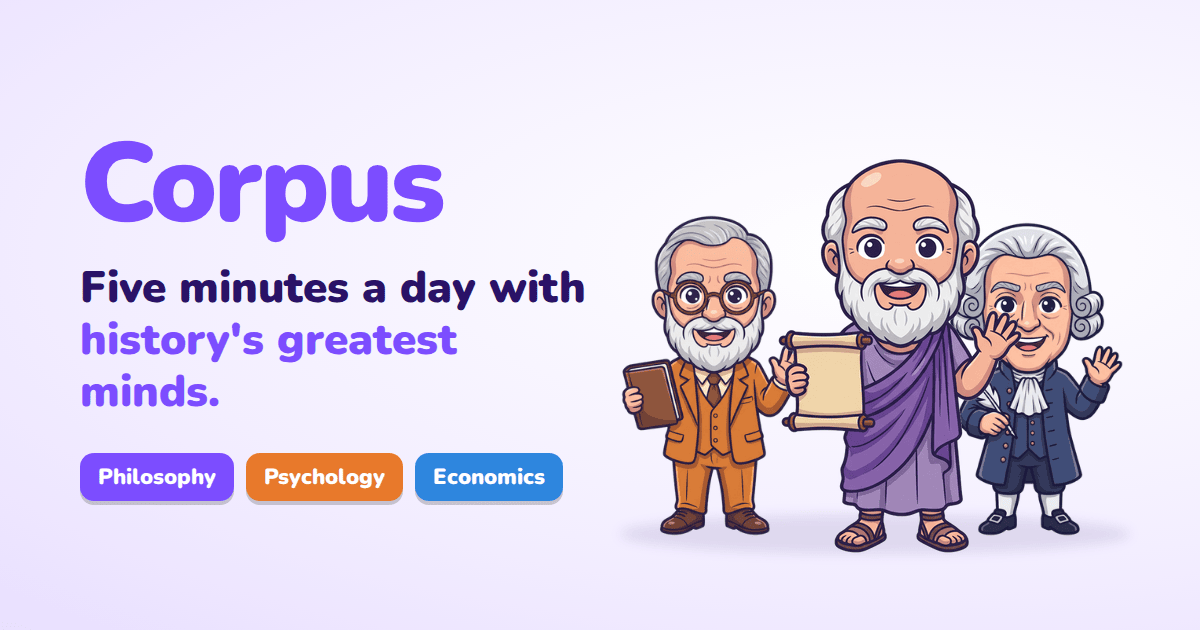
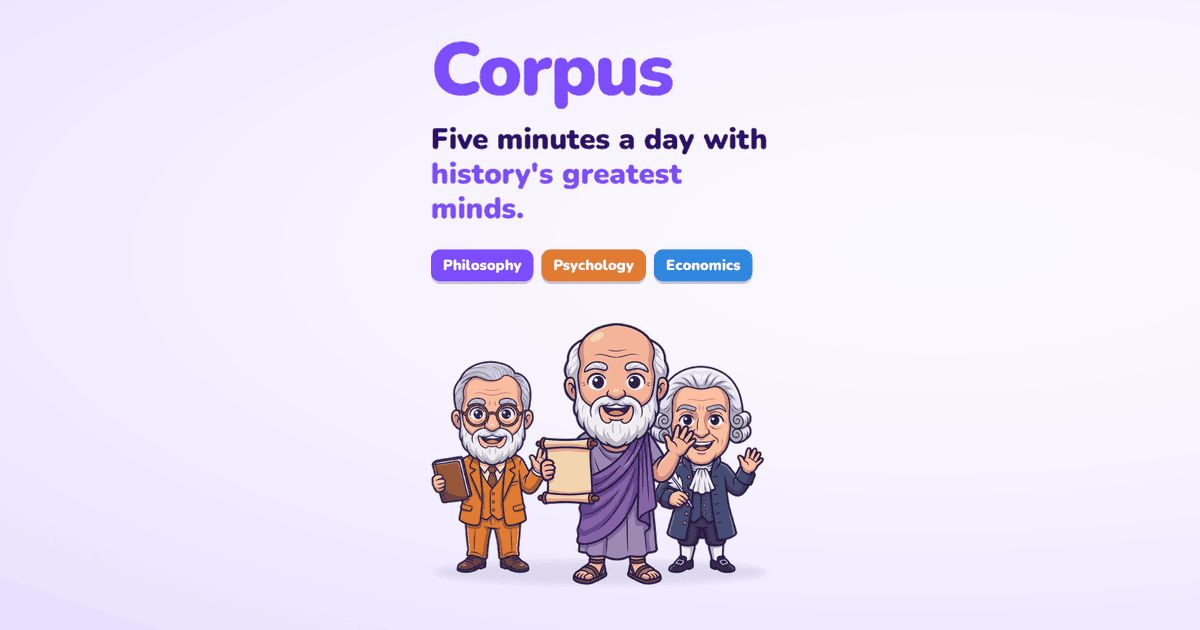
/go/ preview: recompose OG image for the square crop

diff --git a/go/index.html b/go/index.html
@@ -15,8 +15,8 @@
 <meta property="og:type" content="website">
 <meta property="og:title" content="Corpus">
 <meta property="og:description" content="Five minutes a day with history's greatest minds.">
-<meta property="og:image" content="https://corpusapp.io/share/og-get.png?v=2">
-<meta property="og:image:secure_url" content="https://corpusapp.io/share/og-get.png?v=2">
+<meta property="og:image" content="https://corpusapp.io/share/corpus-go-og.png?v=3">
+<meta property="og:image:secure_url" content="https://corpusapp.io/share/corpus-go-og.png?v=3">
 <meta property="og:image:type" content="image/png">
 <meta property="og:image:width" content="1200">
 <meta property="og:image:height" content="630">
@@ -27,7 +27,7 @@
 <meta name="twitter:card" content="summary_large_image">
 <meta name="twitter:title" content="Corpus">
 <meta name="twitter:description" content="Five minutes a day with history's greatest minds.">
-<meta name="twitter:image" content="https://corpusapp.io/share/og-get.png?v=2">
+<meta name="twitter:image" content="https://corpusapp.io/share/corpus-go-og.png?v=3">
 <style>
   :root { --ink:#2F2150; --accent:#7B4FD4; --bg:#F8F5FF; }
   * { box-sizing:border-box; }
